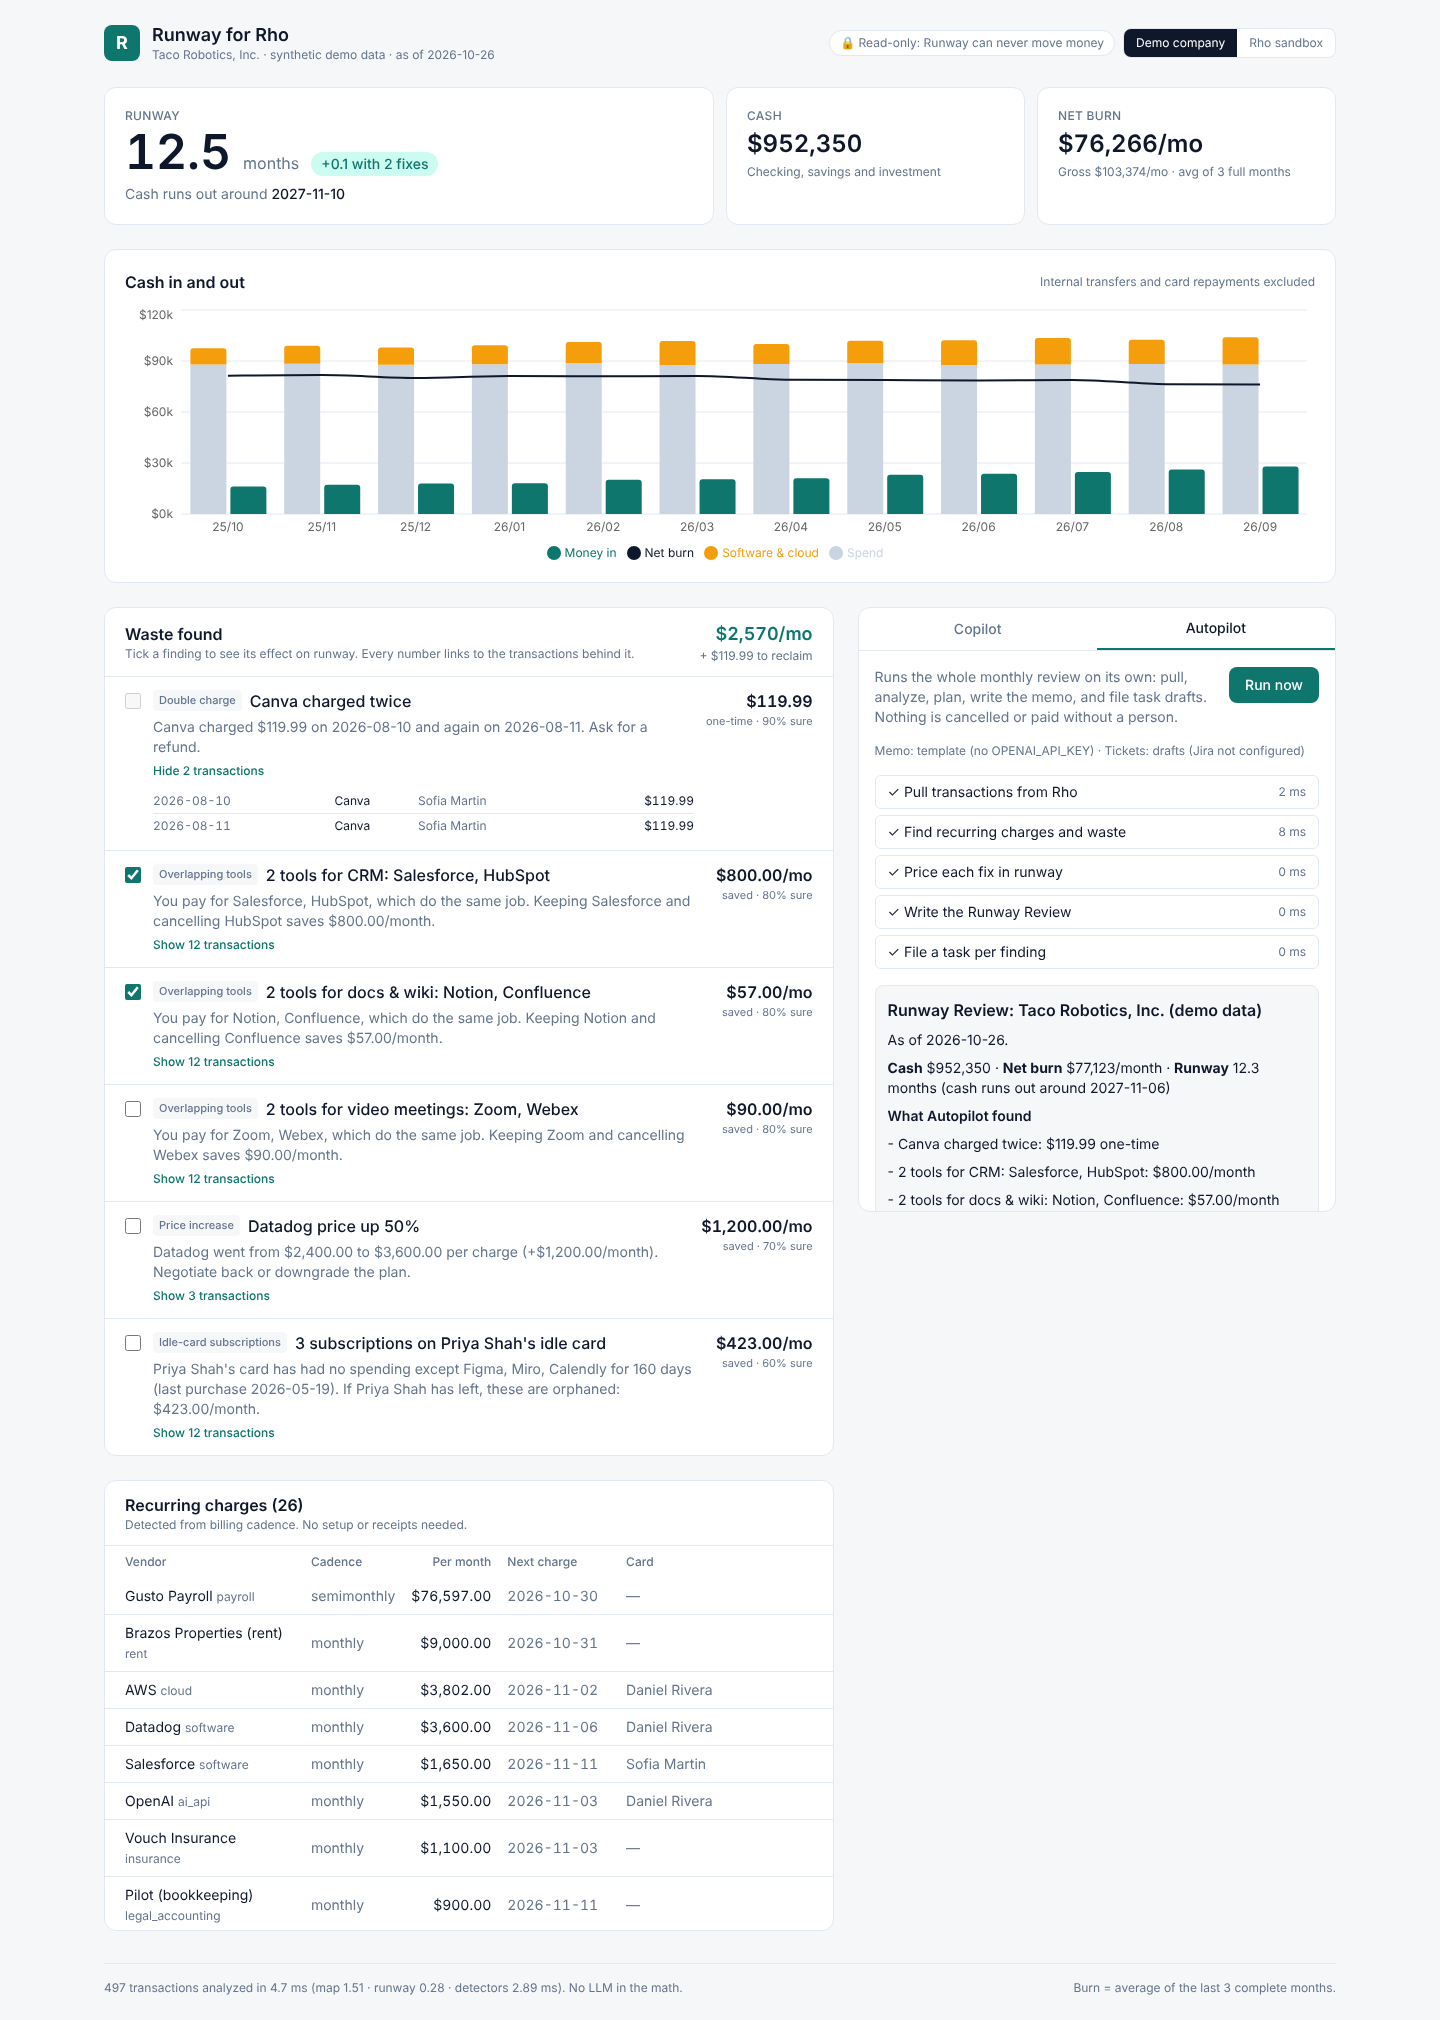
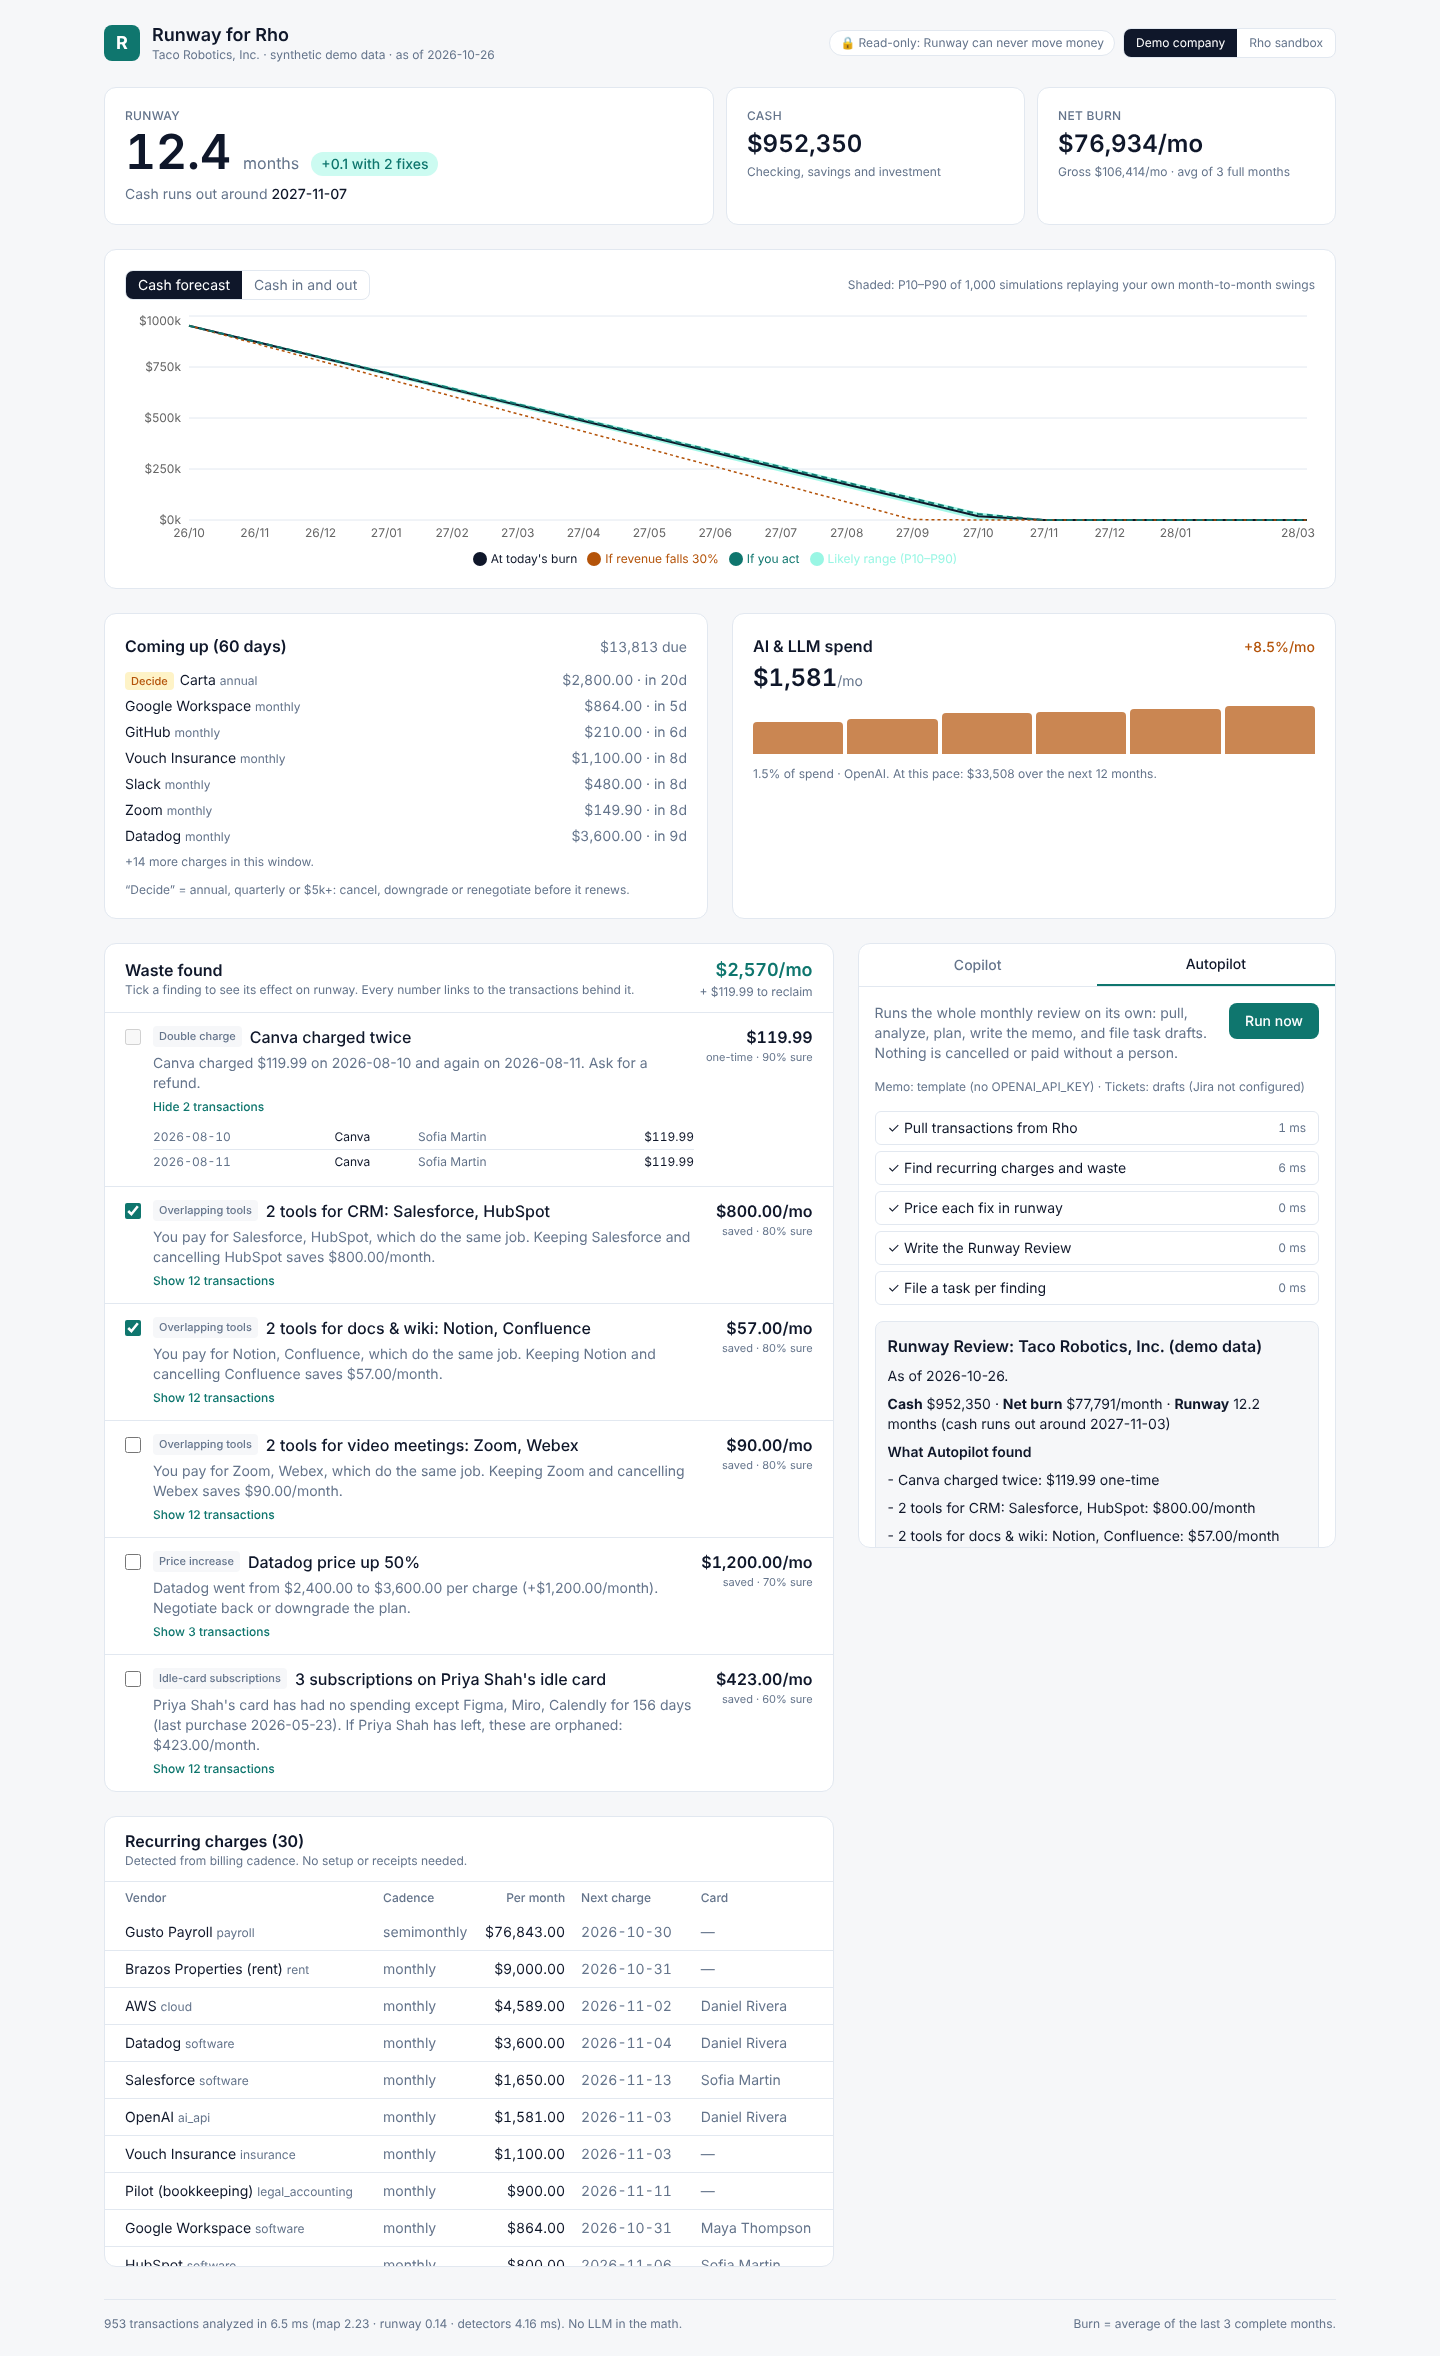
docs: README covers forecast, renewals, AI spend and LLM vendor fallback
Claude-Session: https://claude.ai/code/session_01XJsRtATpkVsKuyhvYToNyx

diff --git a/scripts/eval.ts b/scripts/eval.ts
@@ -61,7 +61,7 @@ const lines: string[] = [
   "# Detector eval results",
   "",
   `Generated by \`npm run eval\` on ${new Date().toISOString().slice(0, 10)}: ${SEEDS.length} seeded companies × ${NOISE_LEVELS.length} descriptor noise levels (${runs.length} runs, ~${Math.round(mean(runs.map((r) => r.rows)))} transactions each).`,
-  "Each company has planted waste plus negative controls (usage-based AWS/OpenAI growth, Slack + Zoom + Loom, AWS + Vercel) that must not be flagged.",
+  "Each company has planted waste plus negative controls that must not be flagged: usage-based AWS/OpenAI growth, Slack + Zoom + Loom, AWS + Vercel, varying airfare, and irregular one-offs (laptops, legal bills).",
   "",
   "| Detector | Precision | Recall |",
   "|---|---|---|",

diff --git a/README.md b/README.md
@@ -15,6 +15,12 @@ Built at the AITX & MLOps World Community Hackathon (Austin Tech Week, Oct 26–
   - **Subscriptions still billing an idle card:** e.g. a departed teammate's card paying for Figma, Miro and Calendly.
   - **Double charges.**
 - **Live what-if.** Tick findings and watch runway and the zero-cash date move.
+- **Cash forecast with a range, not a guess.**
+  - A 1,000-path bootstrap Monte Carlo replays the company's own month-to-month swings, giving a P10–P90 runway range and zero-cash dates.
+  - It sits alongside an "if you act" line that follows your what-if selection.
+  - A stress line shows what happens if revenue falls 30%.
+- **Renewals calendar.** Every subscription charge due in the next 60 days, with annual, quarterly or $5k+ renewals flagged as decisions to make *before* they renew.
+- **AI & LLM spend tracker.** Monthly API spend, compound growth rate, share of spend and a 12-month projection: the fastest-growing line item at AI startups.
 - **Copilot** (chat agent): "Get me to 14 months without touching payroll." It plans with tools over the same math and drafts cancellation emails, downgrade requests and Jira tickets. Drafts are never sent automatically.
 - **Autopilot** (autonomous agent): one click, or a schedule, runs the monthly review end to end: pull from Rho → analyze → price each fix in runway → write the Runway Review memo → file a task per finding. Every step is logged with timings.
 - **Read-only by design.** Rho's API can't move money, and neither can Runway. Agents can only create drafts; the database refuses anything else.
@@ -47,7 +53,7 @@ Environment variables (see `.env.example`):
 
 | Variable | Needed for | Default |
 |---|---|---|
-| `OPENAI_API_KEY` | Copilot chat, LLM-written memo | unset: Copilot disabled, template memo |
+| `OPENAI_API_KEY` | Copilot chat, LLM-written memo, labelling unknown vendors | unset: Copilot disabled, template memo, rules-only vendors |
 | `OPENAI_MODEL_AGENT` / `OPENAI_MODEL_FAST` | Model choice | `gpt-6.1-sol` / `gpt-6-luna` |
 | `RHO_BASE_URL` / `RHO_API_TOKEN` | Rho feed | sandbox URL / `sandbox` |
 | `JIRA_BASE_URL`, `JIRA_EMAIL`, `JIRA_API_TOKEN`, `JIRA_PROJECT_KEY` | Filing real Jira tickets from Autopilot | unset: tickets stay as drafts |
@@ -73,7 +79,11 @@ Rho API (read-only) ──► rho/client.ts ──► rho/map.ts ──► pipel
 
 Design choices worth knowing:
 
-- **Rules before models.** A vendor catalog with alias matching resolves about 97% of vendors on the demo data with zero LLM calls (see eval).
+- **Rules before models.**
+  - A vendor catalog with alias matching resolves about 97% of vendors on the demo data with zero LLM calls (see eval).
+  - Only the unknown remainder goes to the cheap model (`gpt-6-luna`), once per vendor and cached.
+  - The model's output is forced into the same closed category and job lists, and gated on confidence.
+  - If the model fails, the app falls back to rules only.
 - **Plan-then-execute Autopilot.** The step sequence is fixed before any (untrusted) bank text is read, so a hostile transaction description can't change what actions run.
 - **Tenant-ready schema** (`supabase/migrations`):
   - `org_id` and RLS on every table; members can only read.
@@ -94,16 +104,26 @@ Design choices worth knowing:
 | Double charge | 100% | 100% |
 
 - **Dollar-weighted recall:** 100%.
-- **Rules-only vendor categorization:** 96.9%. The one miss is an unknown coffee shop left for the LLM.
-- **Speed:** full analysis of ~500 transactions in about 4–6 ms.
+- **Rules-only vendor categorization:** 97.1%. The one miss is an unknown coffee shop, which the LLM fallback handles.
+- **Speed:** full analysis of ~970 transactions in about 7–10 ms. The forecast's 1,000 simulations add about 10 ms.
 
-Each company also contains negative controls that must not be flagged: usage-based AWS/OpenAI growth, Slack + Zoom + Loom, AWS + Vercel, and varying airfare.
+Each company also contains negative controls that must not be flagged: usage-based AWS/OpenAI growth, Slack + Zoom + Loom, AWS + Vercel, varying airfare, and irregular one-offs (laptops, legal bills).
 
-**Honest caveat:** the detectors were developed against this generator. These numbers show the logic works on known patterns, not accuracy on real ledgers. The eval did catch two real false positives during development, which were fixed with regression tests: two people's identical orders flagged as a double charge, and airfare flagged as price creep.
+**Honest caveat:** the detectors were developed against this generator. These numbers show the logic works on known patterns, not accuracy on real ledgers.
+
+The eval and two independent code reviews caught real bugs during development, each now covered by a regression test:
+- Two people's identical orders were flagged as a double charge.
+- Airfare was flagged as price creep.
+- Savings were double-counted when one tool appeared in two findings.
+- A departed teammate was blamed for a tool someone else now pays for.
 
 ## Data and provenance
 
-- **Taco Robotics, Inc.** is a **synthetic** company generated by `src/lib/seed/demo-company.ts` (deterministic, seeded). Every row is fake, in Rho's exact wire format, with planted waste recorded as ground truth. The UI labels it as demo data.
+- **Taco Robotics, Inc.** is a **synthetic** company generated by `src/lib/seed/demo-company.ts`:
+  - Deterministic and seeded, covering 24 months.
+  - Includes realistic revenue swings and irregular one-off purchases.
+  - Every row is fake, in Rho's exact wire format, with planted waste recorded as ground truth.
+  - The UI labels it as demo data.
 - **Rho sandbox** is Rho's own fictional, static feed. It has 72 transactions ending June 2026 and almost no SaaS spend, so Runway dates its analysis by the latest transaction when using it.
 - **Prior art** (studied, not copied): see [docs/prior-art.md](docs/prior-art.md) for what earlier Rho hackathon projects taught us about the API.
 
@@ -120,14 +140,19 @@ Each company also contains negative controls that must not be flagged: usage-bas
   - Also set a monthly spend limit on the OpenAI project.
 - **Jira filing checks for an existing issue first**, by the finding's label via `POST /rest/api/3/search/jql`, and fails closed if that check errors. The endpoint name changed in 2025, so verify it against your Atlassian site.
 - **Supabase persistence is designed and tested** (migration plus `npm run test:db`) but not yet wired into the app. Analysis currently runs in memory per request.
-- **The LLM vendor-categorization fallback isn't implemented yet.** Unknown vendors are labelled "other".
+- **The LLM paths are built but haven't been run against the live OpenAI API** (no key in the build environment):
+  - Copilot
+  - the memo writer
+  - the vendor fallback
+
+  Their deterministic parts (tools, validation, the memo number check) are tested. Without a key, everything degrades to rules and templates.
 - **Zombie detection is a heuristic.** Bank data has no usage data, so "idle card" stands in for "unused". SSO or Google Workspace signals would make it precise.
+- **The Monte Carlo band captures month-to-month noise, not trends.** For a steady company the band is narrow, so the revenue-drop stress line is the more useful risk view.
 - **Not built yet:**
   - Apify-scraped plan pricing for "cheaper tier" suggestions.
-  - Renewal calendar.
-  - AI-token spend tracker.
   - Treasury idle-cash insight.
-  - Monte Carlo runway bands.
+  - Slack digest.
+  - Closing the loop by checking that the next Rho charge actually dropped.
 - **The Rho field mapping is unverified.** It was built from Rho's public docs and earlier hackathon clients, and needs re-checking against the live sandbox and production API.
 
 ## Team

diff --git a/docs/eval-results.md b/docs/eval-results.md
@@ -1,7 +1,7 @@
 # Detector eval results
 
 Generated by `npm run eval` on 2026-10-29: 5 seeded companies × 2 descriptor noise levels (10 runs, ~966 transactions each).
-Each company has planted waste plus negative controls (usage-based AWS/OpenAI growth, Slack + Zoom + Loom, AWS + Vercel) that must not be flagged.
+Each company has planted waste plus negative controls that must not be flagged: usage-based AWS/OpenAI growth, Slack + Zoom + Loom, AWS + Vercel, varying airfare, and irregular one-offs (laptops, legal bills).
 
 | Detector | Precision | Recall |
 |---|---|---|
@@ -15,6 +15,6 @@ Each company has planted waste plus negative controls (usage-based AWS/OpenAI gr
 |---|---|---|
 | Dollar-weighted recall | 100.0% ± 0.0 | 100.0% ± 0.0 |
 | Vendor categorization accuracy (rules only, before LLM) | 97.1% ± 0.0 | 97.1% ± 0.0 |
-| Full analysis time (map + runway + detectors) | 9.7 ms | 7.2 ms |
+| Full analysis time (map + runway + detectors) | 9.1 ms | 5.8 ms |
 
 No missed items or false positives across all runs.
